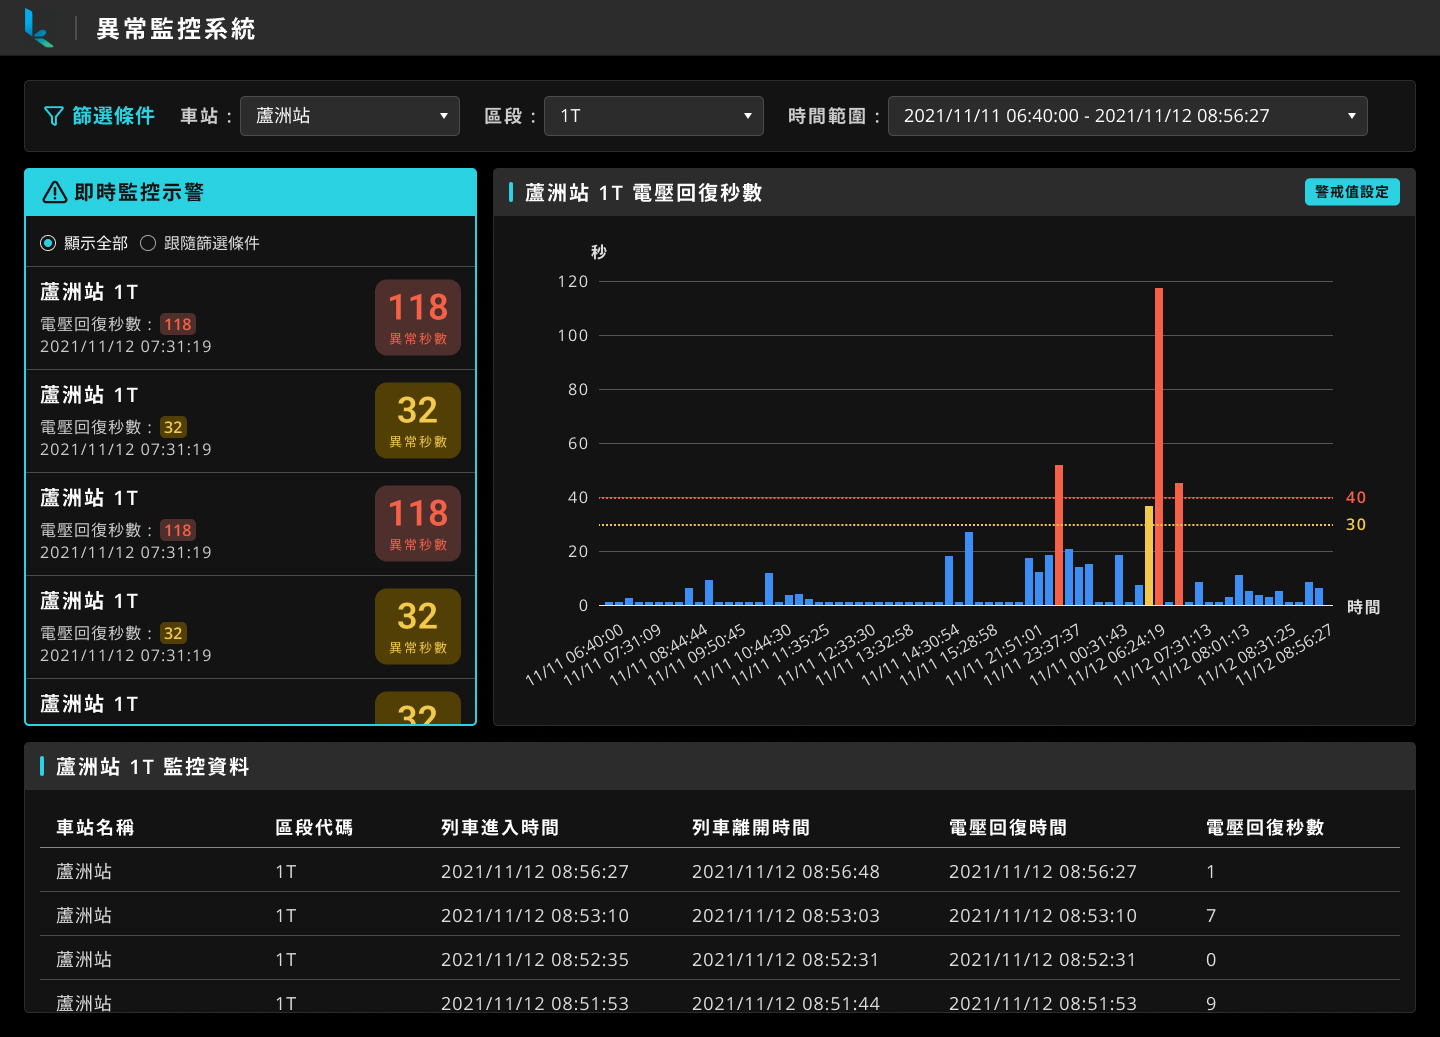
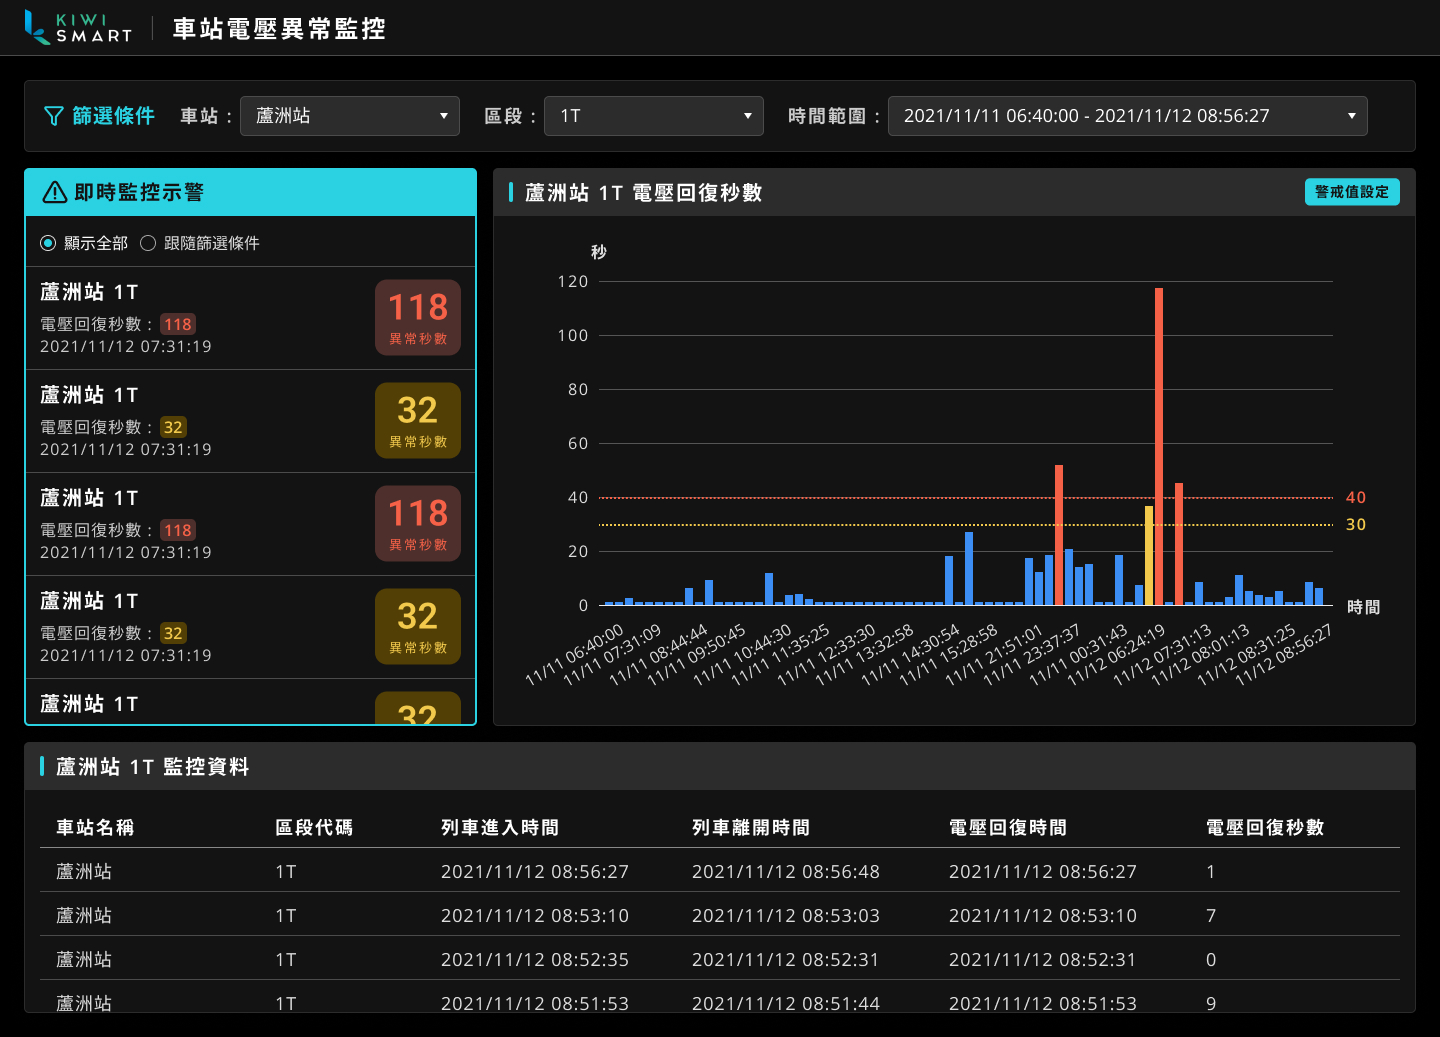
project cover

Changed region(s): [[0.0, 0.0, 1.0, 0.0617]]

diff --git a/project_list.html b/project_list.html
@@ -1,0 +1,261 @@
+<!DOCTYPE html>
+<html lang="en">
+  <head>
+    <title>Joseph Wu - Portfolio</title>
+    <meta charset="utf-8">
+    <meta name="viewport" content="width=device-width, initial-scale=1, shrink-to-fit=no">
+    
+    <link href="https://fonts.googleapis.com/css?family=Poppins:100,200,300,400,500,600,700,800,900" rel="stylesheet">
+
+    <link rel="stylesheet" href="css/open-iconic-bootstrap.min.css">
+    <link rel="stylesheet" href="css/animate.css">
+    
+    <link rel="stylesheet" href="css/owl.carousel.min.css">
+    <link rel="stylesheet" href="css/owl.theme.default.min.css">
+    <link rel="stylesheet" href="css/magnific-popup.css">
+
+    <link rel="stylesheet" href="css/aos.css">
+
+    <link rel="stylesheet" href="css/ionicons.min.css">
+    
+    <link rel="stylesheet" href="css/flaticon.css">
+    <link rel="stylesheet" href="css/icomoon.css">
+    <link rel="stylesheet" href="css/style.css">
+
+    <!-- Global site tag (gtag.js) - Google Analytics -->
+		<script async src="https://www.googletagmanager.com/gtag/js?id=G-LFRFJMZKN0"></script>
+		<script>
+		  window.dataLayer = window.dataLayer || [];
+		  function gtag(){dataLayer.push(arguments);}
+		  gtag('js', new Date());
+
+		  gtag('config', 'G-LFRFJMZKN0');
+		</script>
+  </head>
+  <body data-spy="scroll" data-target=".site-navbar-target" data-offset="300">
+	  
+	  
+    <nav class="navbar navbar-expand-lg navbar-dark ftco_navbar ftco-navbar-light site-navbar-target" id="ftco-navbar">
+	    <div class="container">
+	      <a class="navbar-brand" href="index.html"><span>J</span> oseph Wu</a>
+	      <button class="navbar-toggler js-fh5co-nav-toggle fh5co-nav-toggle" type="button" data-toggle="collapse" data-target="#ftco-nav" aria-controls="ftco-nav" aria-expanded="false" aria-label="Toggle navigation">
+	        <span class="oi oi-menu"></span> Menu
+	      </button>
+
+	      <div class="collapse navbar-collapse" id="ftco-nav">
+	        <ul class="navbar-nav nav ml-auto">
+	          <li class="nav-item"><a href="index.html" class="nav-link"><span>關於 Joseph</span></a></li>
+	          <li class="nav-item"><a href="project_list.html" class="nav-link"><span>設計作品</span></a></li>
+	          <!-- <li class="nav-item dropdown">
+			        <a class="nav-link dropdown-toggle" href="#" id="navbarDropdownMenuLink" role="button" data-toggle="dropdown" aria-expanded="false">
+			          <span>設計作品</span>
+			        </a>
+			        <div class="dropdown-menu" aria-labelledby="navbarDropdownMenuLink">
+			          <a class="dropdown-item" href="project_1_1.html">JarviX 智能分析功能改版</a>
+                <a class="dropdown-item" href="project_1_2.html">JarviX Style Guideline</a>
+			          <a class="dropdown-item" href="project_2.html">電壓異常監控看板</a>
+			          <a class="dropdown-item" href="project_3.html">機台健康度監測看板</a>
+			          <a class="dropdown-item" href="project_4.html">區塊鏈存證王 形象網站</a>
+                <a class="dropdown-item" href="project_5.html">區塊鏈存證王 售價內容設定平台</a>
+			          <a class="dropdown-item" href="project_6.html">福泰旅遊 網站改版</a>
+			          <a class="dropdown-item" href="project_7.html">福泰旅遊 機票訂位平台</a>
+			          <a class="dropdown-item" href="project_8.html">福泰旅遊 飯店訂房平台</a>
+			        </div>
+			      </li> -->
+			    </ul>
+
+			    <form class="form-inline pl-md-3">
+				    <a href="https://drive.google.com/file/d/17VwgaoMKp_FFtWr8_XZ5Hz3o6zb8pGSM/view?usp=sharing" target="_blank" class="btn btn-primary">下載履歷</a>
+				  </form>
+	      </div>
+	    </div>
+	  </nav>
+
+    <section class="ftco-section ftco-project" id="projects-section">
+    	<div class="container-fluid px-md-0">
+    		<div class="row no-gutters justify-content-center pb-5">
+          <div class="col-md-12 heading-section text-center ftco-animate">
+          	<h1 class="big big-2">Projects</h1>
+            <h2 class="mb-4">設計作品</h2>
+          </div>
+        </div>
+    		<div class="row no-gutters">
+    			<div class="col-md-4 pb-4">
+    				<div class="project img ftco-animate d-flex justify-content-center align-items-center" style="background-image: url(images/project_cover1.jpg);">
+    					<div class="overlay"></div>
+	    				<div class="text text-center p-4">
+	    					<h3><a href="project_1_1.html">瀏覽詳細內容</a></h3>	
+	    				</div>
+    				</div>
+    				<div class="text text-center p-4">
+	    				<h5><a href="project_1_1.html">JarviX 智能分析功能改版</a></h5>
+	    				<span>UI / UX Design</span>
+	    			</div>
+  				</div>
+    			<div class="col-md-4 pb-4">
+    				<div class="project img ftco-animate d-flex justify-content-center align-items-center" style="background-image: url(images/project_cover2.jpg);">
+    					<div class="overlay"></div>
+	    				<div class="text text-center p-4">
+	    					<h3><a href="project_1_2.html">瀏覽詳細內容</a></h3>	
+	    				</div>
+    				</div>
+    				<div class="text text-center p-4">
+	    				<h5><a href="project_1_2.html">JarviX Design System</a></h5>
+	    				<span>UI Design</span>
+	    			</div>
+  				</div>
+    			<div class="col-md-4 pb-4">
+    				<div class="project img ftco-animate d-flex justify-content-center align-items-center" style="background-image: url(images/project_cover3.jpg);">
+    					<div class="overlay"></div>
+	    				<div class="text text-center p-4">
+	    					<h3><a href="project_2.html">瀏覽詳細內容</a></h3>	
+	    				</div>
+    				</div>
+    				<div class="text text-center p-4">
+	    				<h5><a href="project_2.html">車站電壓異常監控看板</a></h5>
+	    				<span>UI / UX Design</span>
+	    			</div>
+  				</div>
+    			<div class="col-md-4 pb-4">
+    				<div class="project img ftco-animate d-flex justify-content-center align-items-center" style="background-image: url(images/project_cover2.jpg);">
+    					<div class="overlay"></div>
+	    				<div class="text text-center p-4">
+	    					<h3><a href="project_1_2.html">瀏覽詳細內容</a></h3>	
+	    				</div>
+    				</div>
+    				<div class="text text-center p-4">
+	    				<h5><a href="project_1_2.html">JarviX Design System</a></h5>
+	    				<span>UI Design</span>
+	    			</div>
+  				</div>    			<div class="col-md-4 pb-4">
+    				<div class="project img ftco-animate d-flex justify-content-center align-items-center" style="background-image: url(images/project_cover1.jpg);">
+    					<div class="overlay"></div>
+	    				<div class="text text-center p-4">
+	    					<h3><a href="project_1_1.html">瀏覽詳細內容</a></h3>	
+	    				</div>
+    				</div>
+    				<div class="text text-center p-4">
+	    				<h5><a href="project_1_1.html">JarviX 智能分析功能改版</a></h5>
+	    				<span>UI / UX Design</span>
+	    			</div>
+  				</div>
+    			<div class="col-md-4 pb-4">
+    				<div class="project img ftco-animate d-flex justify-content-center align-items-center" style="background-image: url(images/project_cover2.jpg);">
+    					<div class="overlay"></div>
+	    				<div class="text text-center p-4">
+	    					<h3><a href="project_1_2.html">瀏覽詳細內容</a></h3>	
+	    				</div>
+    				</div>
+    				<div class="text text-center p-4">
+	    				<h5><a href="project_1_2.html">JarviX Design System</a></h5>
+	    				<span>UI Design</span>
+	    			</div>
+  				</div>
+    		</div>
+    	</div>
+    </section>
+
+    <section class="ftco-section contact-section ftco-hireme img" id="contact-section" style="background-image: url(images/bg_1.jpg)">
+      <div class="overlay"></div>
+      <div class="container">
+      	<div class="row justify-content-center mb-5 pb-3">
+          <div class="col-md-7 heading-section text-center ftco-animate">
+            <h1 class="big big-2">Contact</h1>
+            <h2 class="mb-4">聯絡方式</h2>
+          </div>
+        </div>
+
+        <div class="row d-flex contact-info mb-5">
+          
+          <div class="col-md-6 col-lg-3 d-flex ftco-animate">
+          	<div class="align-self-stretch box text-center p-4 shadow">
+          		<a href="tel://1234567920">
+	          		<div class="icon d-flex align-items-center justify-content-center">
+	          			<span class="icon-phone2"></span>
+	          		</div>
+	          	</a>
+          		<div>
+	          		<h3 class="mb-4"><a href="tel://1234567920">+886 910788225</a></h3>
+	            </div>
+	          </div>
+          </div>
+          <div class="col-md-6 col-lg-3 d-flex ftco-animate">
+          	<div class="align-self-stretch box text-center p-4 shadow">
+          		<a href="mailto:j78428@gmail.com">
+	          		<div class="icon d-flex align-items-center justify-content-center">
+	          			<span class="icon-paper-plane"></span>
+	          		</div>
+	          	</a>
+          		<div>
+	          		<h3 class="mb-4"><a href="mailto:j78428@gmail.com">j78428@gmail.com</a></h3>
+		          </div>
+	          </div>
+          </div>
+          <div class="col-md-6 col-lg-3 d-flex ftco-animate">
+          	<div class="align-self-stretch box text-center p-4 shadow">
+          		<a href="https://www.linkedin.com/in/joseph-wu-9026b375/">
+	          		<div class="icon d-flex align-items-center justify-content-center">
+	          			<span class="icon-linkedin"></span>
+	          		</div>
+          		</a>
+          		<div>
+	          		<h3 class="mb-4"><a href="https://www.linkedin.com/in/joseph-wu-9026b375/">Linkedin</a></h3>
+	            </div>
+	          </div>
+          </div>
+          <div class="col-md-6 col-lg-3 d-flex ftco-animate">
+          	<div class="align-self-stretch box text-center p-4 shadow">
+          		<a href="https://www.behance.net/j78428">
+	          		<div class="icon d-flex align-items-center justify-content-center">
+	          			<span class="icon-behance"></span>
+	          		</div>
+	          	</a>
+          		<div>
+          			<h3 class="mb-4"><a href="https://www.behance.net/j78428">Behance</a></h3>
+		          </div>
+	          </div>
+          </div>
+        </div>
+
+      </div>
+    </section>
+		
+
+    <footer class="ftco-footer ftco-section">
+      <div class="container">
+        
+        
+          <div class="text-center">
+
+            <p><!-- Link back to Colorlib can't be removed. Template is licensed under CC BY 3.0. -->
+  Copyright &copy;<script>document.write(new Date().getFullYear());</script> All rights reserved</a>
+  <!-- Link back to Colorlib can't be removed. Template is licensed under CC BY 3.0. --></p>
+          </div>
+        </div>
+      </div>
+    </footer>
+    
+  
+
+  <!-- loader -->
+  <div id="ftco-loader" class="show fullscreen"><svg class="circular" width="48px" height="48px"><circle class="path-bg" cx="24" cy="24" r="22" fill="none" stroke-width="4" stroke="#eeeeee"/><circle class="path" cx="24" cy="24" r="22" fill="none" stroke-width="4" stroke-miterlimit="10" stroke="#F96D00"/></svg></div>
+
+
+  <script src="js/jquery.min.js"></script>
+  <script src="js/jquery-migrate-3.0.1.min.js"></script>
+  <script src="js/popper.min.js"></script>
+  <script src="js/bootstrap.min.js"></script>
+  <script src="js/jquery.easing.1.3.js"></script>
+  <script src="js/jquery.waypoints.min.js"></script>
+  <script src="js/jquery.stellar.min.js"></script>
+  <script src="js/owl.carousel.min.js"></script>
+  <script src="js/jquery.magnific-popup.min.js"></script>
+  <script src="js/aos.js"></script>
+  <script src="js/jquery.animateNumber.min.js"></script>
+  <script src="js/scrollax.min.js"></script>
+  
+  <script src="js/main.js"></script>
+
+  
+  </body>
+</html>

diff --git a/project_1_2.html b/project_1_2.html
@@ -75,7 +75,7 @@
         <div class="row no-gutters slider-text justify-content-center align-items-center page-title-block">
           <div class="col-lg-10 ftco-animate d-flex align-items-center">
           	<div class="text text-center">
-          		<h1 class="mb-3">JarviX Style Guideline</h1>
+          		<h1 class="mb-3">JarviX Design System</h1>
               <div class="tag-widget post-tag-container mb-3">
                 <div class="tagcloud">
                   <a href="javascript:void();" class="tag-cloud-link">UI</a>
@@ -93,16 +93,16 @@
         <div class="container">
           <div class="row justify-content-lg-center">
             <div class="col-lg-8 ftco-animate">
-              <p><b>產品名稱：</b>JarviX Guideline</p>
+              <p><b>產品名稱：</b>JarviX Design System</p>
               <p><b>擔任角色：</b>UI / UX Designer</p>
               <p><b>負責內容：</b>統整元件類型、列出元件完整狀態、標準化方式建立元件、維護與調整、溝通元件庫實作。</p>
               
               <br>
               <h2 class="mb-3 mt-5">1. 概要說明</h2>
-              <p>產品處在初期快速迭代的過程時，原本維護的 Style Guideline 內容無法繼續跟上功能開發的速度，以致於後續的新 UI 設計稿上開始出現差異，而前端實作的 UI 畫面也正發生同樣的狀況。</p>
+              <p>產品處在初期快速迭代的過程時，原本維護的 Style Design System 內容無法繼續跟上功能開發的速度，以致於後續的新 UI 設計稿上開始出現差異，而前端實作的 UI 畫面也正發生同樣的狀況。</p>
               <p class="text-center">
                 <img src="images/guideline-1-1.jpg" alt="" class="img-fluid">
-                <span class="image-description">Guideline (舊)</span>
+                <span class="image-description">Design System (舊)</span>
               </p>
               <br>
               <h2 class="mb-3 mt-5">2. 定義問題</h2>
@@ -124,14 +124,14 @@
               <h2 class="mb-3 mt-5">3. 設計目標</h2>
               <h5 class="mb-2">(1) 製作效率提升</h5>
               <ul>
-                <li>提升 Style Guideline 內容的完整性，例如：完整的元件狀態與各種變化，減少溝通成本。</li>
+                <li>提升 Design System 內容的完整性，例如：完整的元件狀態與各種變化，減少溝通成本。</li>
                 <li>提高元件組合的彈性，減少相似元件重複製作的狀況。</li>
                 <li>前端工程依照 Guideline 建立元件庫，減少實作認知上的差異。</li>
               </ul>
               <h5 class="mb-2 mt-5">(2) 降低協作難度</h5>
               <ul>
-                <li>前端工程依照 Guideline 內容建立模組化的元件庫，減少不同工程師在實作上的差異。</li>
-                <li>透過 Guideline 與元件庫的關係，讓設計與前端工程有通的語言。</li>
+                <li>前端工程依照 Design System 內容建立模組化的元件庫，減少不同工程師在實作上的差異。</li>
+                <li>透過 Design System 與元件庫的關係，讓設計與前端工程有通的語言。</li>
               </ul>
               
               <br>

diff --git a/index.html b/index.html
@@ -45,7 +45,8 @@
 	      <div class="collapse navbar-collapse" id="ftco-nav">
 	        <ul class="navbar-nav nav ml-auto">
 	          <li class="nav-item"><a href="index.html" class="nav-link"><span>關於 Joseph</span></a></li>
-	          <li class="nav-item dropdown">
+	          <li class="nav-item"><a href="project_list.html" class="nav-link"><span>設計作品</span></a></li>
+	          <!-- <li class="nav-item dropdown">
 			        <a class="nav-link dropdown-toggle" href="#" id="navbarDropdownMenuLink" role="button" data-toggle="dropdown" aria-expanded="false">
 			          <span>設計作品</span>
 			        </a>
@@ -60,7 +61,7 @@
 			          <a class="dropdown-item" href="project_7.html">福泰旅遊 機票訂位平台</a>
 			          <a class="dropdown-item" href="project_8.html">福泰旅遊 飯店訂房平台</a>
 			        </div>
-			      </li>
+			      </li> -->
 			    </ul>
 
 			    <form class="form-inline pl-md-3">
@@ -142,7 +143,7 @@
 		    					</ul>
 		    					<div class="link-group pb-3">
 		    						<a href="project_1_1.html" target="_blank" class="btn btn-lg btn-secondary">JarviX 智能分析功能改版</a>
-		    						<a href="project_1_2.html" target="_blank" class="btn btn-lg btn-secondary">JarviX Style Guideline</a>
+		    						<a href="project_1_2.html" target="_blank" class="btn btn-lg btn-secondary">JarviX Design System</a>
 		    						<a href="project_2.html" target="_blank" class="btn btn-lg btn-secondary">電壓異常監控看板</a>
 		    						<a href="project_3.html" target="_blank" class="btn btn-lg btn-secondary">機台健康度監測看板</a>
 		    					</div>
@@ -179,10 +180,10 @@
 		    						<li>網頁 <span class="highlight-color">HTML + CSS 切版</span>，與前端工程師溝通功能實作。</li>
 		    						<li>其他專案設計，如「Email 存證」的用戶端使用管理平台、Chrome 瀏覽器 Extation 介面設計。</li>
 		    					</ul>
-		    					<div class="link-group pb-3">
+		    					<!-- <div class="link-group pb-3">
 		    						<a href="project_4.html" target="_blank" class="btn btn-lg btn-secondary">區塊鏈存證王 形象網站</a>
 		    						<a href="project_5.html" target="_blank" class="btn btn-lg btn-secondary">區塊鏈存證王 售價內容設定平台</a>
-		    					</div>
+		    					</div> -->
 		    				</div>
 	    				</div>
 	    				<div class="resume-wrap d-flex ftco-animate">
